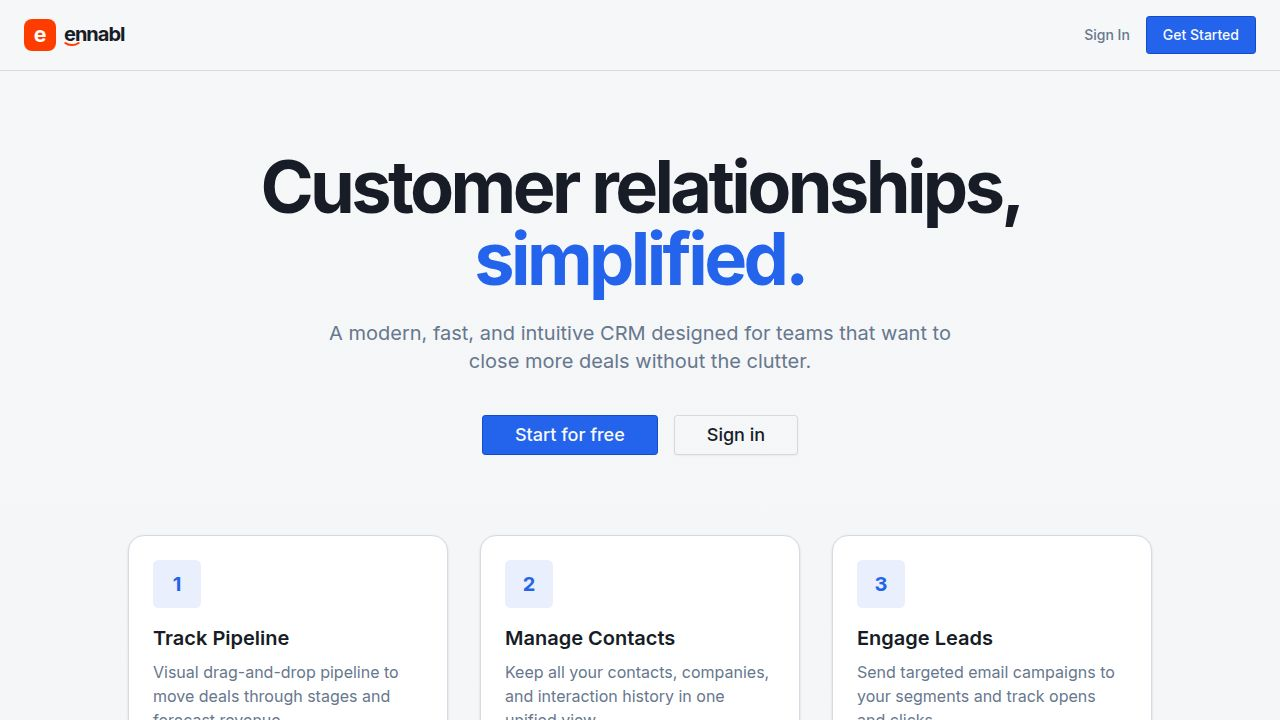
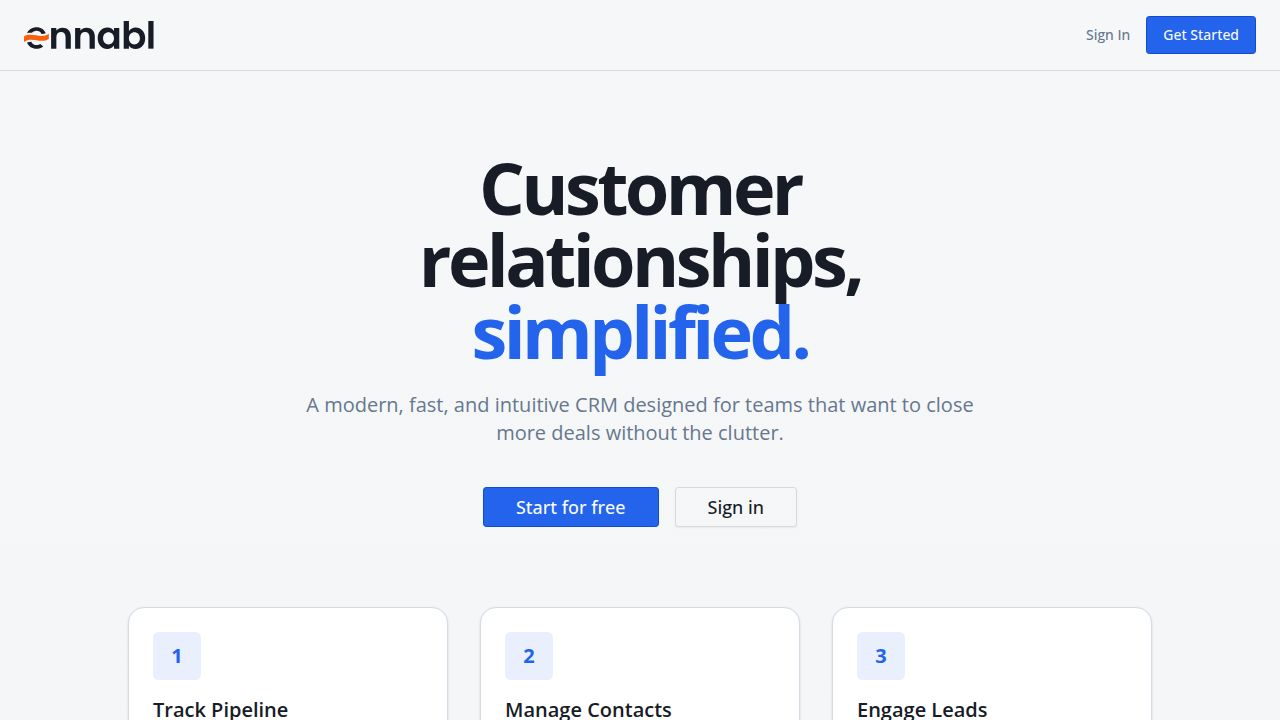
Add drag-and-drop card reordering to dashboards
Task #223: Let users drag cards to reorder their dashboards.

The backend already supported persisting card order via the authz-protected
POST /api/dashboards/cards/reorder endpoint, but the dashboard view only
exposed reordering through the "Move left/right" dropdown items. This adds a
proper drag-and-drop UI.

Changes (artifacts/crm-flat/src/components/dashboards/dashboard-view.tsx):
- Wrapped the card grid in DragDropContext + Droppable (horizontal) and made
  each card a Draggable, reusing @user/dnd already used in deals.tsx.
- Added a GripVertical drag handle in each card header; dragHandleProps are
  bound only to the handle so the dropdown menu and chart stay interactive.
- handleDragEnd computes the new order and calls the reorder mutation.
- Made the reorder mutation optimistic (onMutate updates the query cache,
  onError rolls back + toasts, onSettled invalidates) so reordering feels
  instant and survives reload. The existing arrow-based move() reuses the same
  mutation.

Authorization is unchanged and still enforced server-side (owner/admin only).

Notes:
- Pre-existing typecheck errors exist in unrelated files (segments.tsx,
  sequence-detail.tsx, settings-*.tsx); dashboard-view.tsx typechecks clean.
- Drag-to-reorder runs on a CSS grid with variable col-spans; placeholder
  behavior is acceptable for the small number of cards per dashboard.

Replit-Task-Id: 61ad3c3e-c284-46b5-b951-2e65cc7b8ae7

diff --git a/artifacts/crm-flat/src/components/dashboards/dashboard-view.tsx b/artifacts/crm-flat/src/components/dashboards/dashboard-view.tsx
@@ -27,7 +27,8 @@ import {
   AlertDialogTitle,
 } from "@/components/ui/alert-dialog";
 import { useToast } from "@/hooks/use-toast";
-import { MoreVertical, Plus, Pencil, Trash2, ArrowLeft, ArrowRight, Info, LayoutGrid } from "lucide-react";
+import { MoreVertical, Plus, Pencil, Trash2, ArrowLeft, ArrowRight, Info, LayoutGrid, GripVertical } from "lucide-react";
+import { DragDropContext, Droppable, Draggable, type DropResult } from "@hello-pangea/dnd";
 import { CardRenderer } from "./card-renderer";
 import { CardBuilderDialog } from "./card-builder-dialog";
 import { BASE, type DashboardCard, type VizType, type Dataset, type CardConfig } from "./types";
@@ -120,7 +121,23 @@ export function DashboardView({ dashboardId }: { dashboardId: string }) {
         method: "POST",
         body: JSON.stringify({ order }),
       }),
-    onSuccess: () => qc.invalidateQueries({ queryKey: cardsKey }),
+    onMutate: async (order: string[]) => {
+      await qc.cancelQueries({ queryKey: cardsKey });
+      const previous = qc.getQueryData<DashboardCard[]>(cardsKey);
+      if (previous) {
+        const byId = new Map(previous.map((c) => [c.id, c]));
+        const next = order
+          .map((id) => byId.get(id))
+          .filter((c): c is DashboardCard => !!c);
+        qc.setQueryData<DashboardCard[]>(cardsKey, next);
+      }
+      return { previous };
+    },
+    onError: (_err, _order, ctx) => {
+      if (ctx?.previous) qc.setQueryData(cardsKey, ctx.previous);
+      toast({ title: "Couldn't reorder cards", variant: "destructive" });
+    },
+    onSettled: () => qc.invalidateQueries({ queryKey: cardsKey }),
   });
 
   const move = (card: DashboardCard, dir: -1 | 1) => {
@@ -130,6 +147,16 @@ export function DashboardView({ dashboardId }: { dashboardId: string }) {
     if (swap < 0 || swap >= cards.length) return;
     const next = [...cards];
     [next[idx], next[swap]] = [next[swap], next[idx]];
+    reorder.mutate(next.map((c) => c.id));
+  };
+
+  const handleDragEnd = (result: DropResult) => {
+    if (!cards) return;
+    const { source, destination } = result;
+    if (!destination || destination.index === source.index) return;
+    const next = [...cards];
+    const [moved] = next.splice(source.index, 1);
+    next.splice(destination.index, 0, moved);
     reorder.mutate(next.map((c) => c.id));
   };
 
@@ -163,53 +190,82 @@ export function DashboardView({ dashboardId }: { dashboardId: string }) {
           </CardContent>
         </Card>
       ) : (
-        <div className="grid gap-4 md:grid-cols-4">
-          {cards.map((card, i) => (
-            <Card key={card.id} className={`${SIZE_CLASS[card.size] ?? SIZE_CLASS.md} flex flex-col`}>
-              <CardHeader className="flex flex-row items-start justify-between space-y-0 pb-2 gap-2">
-                <div className="flex items-center gap-1.5 min-w-0">
-                  <CardTitle className="text-sm font-medium truncate">{card.title}</CardTitle>
-                  {card.config.info && (
-                    <TooltipProvider>
-                      <Tooltip>
-                        <TooltipTrigger asChild>
-                          <Info className="h-3.5 w-3.5 text-muted-foreground shrink-0" />
-                        </TooltipTrigger>
-                        <TooltipContent className="max-w-[240px] text-xs">
-                          {card.config.info}
-                        </TooltipContent>
-                      </Tooltip>
-                    </TooltipProvider>
-                  )}
-                </div>
-                <DropdownMenu>
-                  <DropdownMenuTrigger asChild>
-                    <Button variant="ghost" size="icon" className="h-7 w-7 shrink-0">
-                      <MoreVertical className="h-4 w-4" />
-                    </Button>
-                  </DropdownMenuTrigger>
-                  <DropdownMenuContent align="end">
-                    <DropdownMenuItem onClick={() => { setEditing(card); setBuilderOpen(true); }}>
-                      <Pencil className="h-4 w-4 mr-2" /> Edit
-                    </DropdownMenuItem>
-                    <DropdownMenuItem disabled={i === 0} onClick={() => move(card, -1)}>
-                      <ArrowLeft className="h-4 w-4 mr-2" /> Move left
-                    </DropdownMenuItem>
-                    <DropdownMenuItem disabled={i === cards.length - 1} onClick={() => move(card, 1)}>
-                      <ArrowRight className="h-4 w-4 mr-2" /> Move right
-                    </DropdownMenuItem>
-                    <DropdownMenuItem className="text-destructive focus:text-destructive" onClick={() => setDeleteTarget(card)}>
-                      <Trash2 className="h-4 w-4 mr-2" /> Remove
-                    </DropdownMenuItem>
-                  </DropdownMenuContent>
-                </DropdownMenu>
-              </CardHeader>
-              <CardContent className="flex-1">
-                <CardRenderer card={card} height={chartHeight(card.size)} />
-              </CardContent>
-            </Card>
-          ))}
-        </div>
+        <DragDropContext onDragEnd={handleDragEnd}>
+          <Droppable droppableId="dashboard-cards" direction="horizontal">
+            {(dropProvided) => (
+              <div
+                ref={dropProvided.innerRef}
+                {...dropProvided.droppableProps}
+                className="grid gap-4 md:grid-cols-4"
+              >
+                {cards.map((card, i) => (
+                  <Draggable key={card.id} draggableId={card.id} index={i}>
+                    {(dragProvided, dragSnapshot) => (
+                      <Card
+                        ref={dragProvided.innerRef}
+                        {...dragProvided.draggableProps}
+                        style={dragProvided.draggableProps.style}
+                        className={`${SIZE_CLASS[card.size] ?? SIZE_CLASS.md} flex flex-col ${
+                          dragSnapshot.isDragging ? "shadow-lg border-primary/40" : ""
+                        }`}
+                      >
+                        <CardHeader className="flex flex-row items-start justify-between space-y-0 pb-2 gap-2">
+                          <div className="flex items-center gap-1.5 min-w-0">
+                            <button
+                              {...dragProvided.dragHandleProps}
+                              className="shrink-0 -ml-1 cursor-grab text-muted-foreground/50 hover:text-muted-foreground active:cursor-grabbing"
+                              aria-label="Drag to reorder"
+                            >
+                              <GripVertical className="h-4 w-4" />
+                            </button>
+                            <CardTitle className="text-sm font-medium truncate">{card.title}</CardTitle>
+                            {card.config.info && (
+                              <TooltipProvider>
+                                <Tooltip>
+                                  <TooltipTrigger asChild>
+                                    <Info className="h-3.5 w-3.5 text-muted-foreground shrink-0" />
+                                  </TooltipTrigger>
+                                  <TooltipContent className="max-w-[240px] text-xs">
+                                    {card.config.info}
+                                  </TooltipContent>
+                                </Tooltip>
+                              </TooltipProvider>
+                            )}
+                          </div>
+                          <DropdownMenu>
+                            <DropdownMenuTrigger asChild>
+                              <Button variant="ghost" size="icon" className="h-7 w-7 shrink-0">
+                                <MoreVertical className="h-4 w-4" />
+                              </Button>
+                            </DropdownMenuTrigger>
+                            <DropdownMenuContent align="end">
+                              <DropdownMenuItem onClick={() => { setEditing(card); setBuilderOpen(true); }}>
+                                <Pencil className="h-4 w-4 mr-2" /> Edit
+                              </DropdownMenuItem>
+                              <DropdownMenuItem disabled={i === 0} onClick={() => move(card, -1)}>
+                                <ArrowLeft className="h-4 w-4 mr-2" /> Move left
+                              </DropdownMenuItem>
+                              <DropdownMenuItem disabled={i === cards.length - 1} onClick={() => move(card, 1)}>
+                                <ArrowRight className="h-4 w-4 mr-2" /> Move right
+                              </DropdownMenuItem>
+                              <DropdownMenuItem className="text-destructive focus:text-destructive" onClick={() => setDeleteTarget(card)}>
+                                <Trash2 className="h-4 w-4 mr-2" /> Remove
+                              </DropdownMenuItem>
+                            </DropdownMenuContent>
+                          </DropdownMenu>
+                        </CardHeader>
+                        <CardContent className="flex-1">
+                          <CardRenderer card={card} height={chartHeight(card.size)} />
+                        </CardContent>
+                      </Card>
+                    )}
+                  </Draggable>
+                ))}
+                {dropProvided.placeholder}
+              </div>
+            )}
+          </Droppable>
+        </DragDropContext>
       )}
 
       <CardBuilderDialog